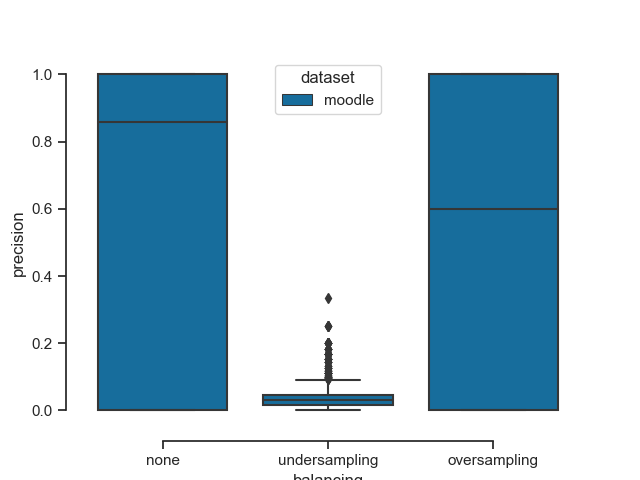
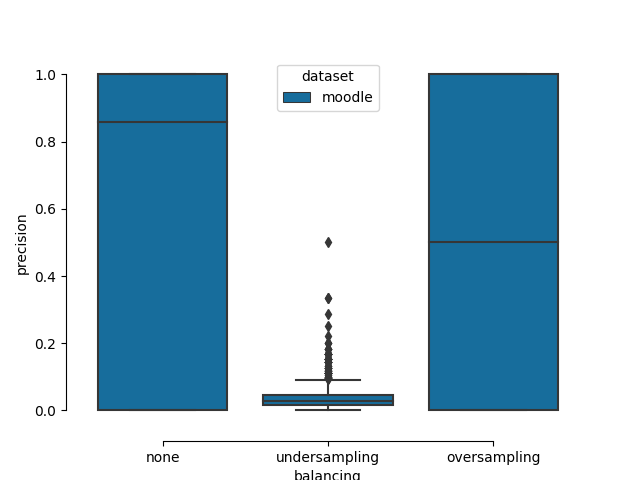
ad run_timespan

diff --git a/boxplot.py b/boxplot.py
@@ -3,29 +3,65 @@ import pandas as pd
 import matplotlib.pyplot as plt
 import seaborn as sns
 
-sns.set_theme(style="ticks", palette="pastel")
-data_model = 'experiments_kmeans_cmeans.csv'
+
+#data_model = 'experiments_timespan_moodle.csv'
+data_model = 'experiments_timespan_phpmyadmin.csv'
+
 # read data from url as pandas dataframe
 df_model = pd.read_csv(data_model)
-# subset the gapminder data frame for rows with year values 1952 and 2007
-my_mcc = df_model[df_model['model'].isin(["kmeans","cmeans"])]
-sns.boxplot(y='mcc', x='balancing',
-                 data=my_mcc,
-                 palette=["m", "g"], #palette="colorblind"
-                 hue='model')
+
+#precision
+sns.boxplot(y='precision', x='balancing',
+                 data=df_model,
+                 palette="Set2", #palette="colorblind", palette="Set2",["m", "g"]
+                 hue="dataset"
+                )
 sns.despine(offset=10, trim=True)
 plt.show()
-my_recall = df_model[df_model['model'].isin(["kmeans","cmeans"])]
+
+'''
+#recall
 sns.boxplot(y='recall', x='balancing',
-                 data=my_recall,
-                 palette=["m", "g"],
-                 hue='model')
+                 data=df_model,
+                 palette=["m", "g"], #palette="colorblind", palette="Set2",["m", "g"]
+                 hue="dataset"
+                )
 sns.despine(offset=10, trim=True)
 plt.show()
-my_acc = df_model[df_model['model'].isin(["kmeans","cmeans"])]
+
+#accuracy
 sns.boxplot(y='accuracy', x='balancing',
-                 data=my_acc,
-                 palette=["m", "g"],
-                 hue='model')
+                 data=df_model,
+                 palette=["m", "g"], #palette="colorblind", palette="Set2",["m", "g"]
+                 hue="dataset"
+                )
 sns.despine(offset=10, trim=True)
 plt.show()
+
+#inspection_rate
+sns.boxplot(y='inspection_rate', x='balancing',
+                 data=df_model,
+                 palette=["m", "g"], #palette="colorblind", palette="Set2",["m", "g"]
+                 hue="dataset"
+                )
+sns.despine(offset=10, trim=True)
+plt.show()
+
+#F1-score
+sns.boxplot(y='f1_score', x='balancing',
+                 data=df_model,
+                 palette=["m", "g"], #palette="colorblind", palette="Set2",["m", "g"]
+                 hue="dataset"
+                )
+sns.despine(offset=10, trim=True)
+plt.show()
+
+#mcc
+sns.boxplot(y='mcc', x='balancing',
+                 data=df_model,
+                 palette=["m", "g"], #palette="colorblind", palette="Set2",["m", "g"]
+                 hue="dataset"
+                )
+sns.despine(offset=10, trim=True)
+plt.show()
+'''

diff --git a/run_all_experiments.py b/run_all_experiments.py
@@ -22,7 +22,7 @@ print(all_experiments[0][1])
 
 for i in range(0, n):
     log = execute_experiment(i+1, all_experiments[i])
-    pandas.DataFrame(log).to_csv(output_file, mode='a', index=False, header=False)
+    #pandas.DataFrame(log).to_csv(output_file, mode='a', index=False, header=False)
 
 utils.print_space()
 print("All done!")
